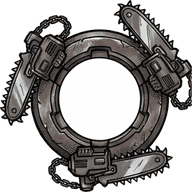
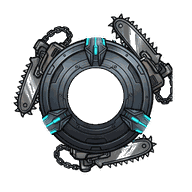
v0.39.0: all painted crowns and weapon rings, unified ring body, floating tops on the team screen
Claude-Session: https://claude.ai/code/session_01LmbtZinGW7YZgeBA32fd2Q

diff --git a/index.html b/index.html
@@ -3,7 +3,7 @@
 <head>
 <meta charset="utf-8">
 <meta name="viewport" content="width=device-width,initial-scale=1,maximum-scale=1,user-scalable=no,viewport-fit=cover">
-<title>SPIN! SPIN! v0.38.0</title>
+<title>SPIN! SPIN! v0.39.0</title>
 <link rel="manifest" href="manifest.webmanifest"><meta name="theme-color" content="#05050a"><link rel="apple-touch-icon" href="icons/icon-180.png"><meta name="apple-mobile-web-app-capable" content="yes"><meta name="mobile-web-app-capable" content="yes"><meta name="apple-mobile-web-app-status-bar-style" content="black-translucent"><meta name="apple-mobile-web-app-title" content="SPIN! SPIN!">
 <link rel="preconnect" href="https://fonts.googleapis.com"><link rel="preconnect" href="https://fonts.gstatic.com" crossorigin>
 <link href="https://fonts.googleapis.com/css2?family=Rajdhani:wght@500;700&family=Russo+One&display=swap" rel="stylesheet">
@@ -585,6 +585,9 @@ h1{font-style:italic;text-shadow:-2px -2px 0 #05060a,2px -2px 0 #05060a,-2px 2px
 #nav img{width:2.1em;height:2.1em;object-fit:contain;filter:saturate(.35) brightness(.7);transition:transform .12s,filter .12s}
 #nav button.on img{filter:drop-shadow(0 0 6px rgba(252,238,10,.7));transform:scale(1.15) translateY(-2px)}#nav button:active img{transform:scale(.86)}
 img.ore,.hmPill img{width:1.35em;height:1.35em;object-fit:contain;vertical-align:middle}
+#team .slot .stop{width:5.6em;height:5.6em;top:auto;bottom:47%;right:-.7em;z-index:2;filter:drop-shadow(0 .5em .25em rgba(0,0,0,.55));animation:stFloat 2.6s ease-in-out infinite}
+#team .slot:nth-child(2) .stop{animation-delay:-.9s}#team .slot:nth-child(3) .stop{animation-delay:-1.7s}
+@keyframes stFloat{50%{transform:translateY(-.35em) rotate(-4deg)}} /* v0.39 the top floats beside the portrait */
 </style>
 </head>
 <body>
@@ -831,6 +834,7 @@ img.ore,.hmPill img{width:1.35em;height:1.35em;object-fit:contain;vertical-align
  v0.28.0 lobby page (大廳: currencies, lead character, chapter banner, free battle) + team page; UI skin: chunky press-down buttons, layered panels, hierarchy
  v0.29.0 art pass: rarity frames (purple sparkles, red flame, gold holo), portrait unification (grade + halftone + rim), page wipe, button shine, chapter floor textures, spin arcs, display font for the logo
  v0.30.0 chapters 11-15 (50 levels): 15 returning BOSSes with move pools and recoloured portraits; ending also plays after 15-10
+ v0.39.0 all 27 crowns + 12 weapon rings painted, weapon rings share one standard ring body; team slots show a floating top beside the portrait
  v0.38.0 painted tops pilot (crown = card, weapon ring = weapon, armor = core glow); gantries stand on the wall rims; viaduct piers under the road
  v0.37.1 painted ramp deck (art/props/ramp_top.jpg) mapped up the slope in strips
  v0.37.0 painted UI kit (9-slice buttons/panels, nav + currency icons, chapter arrows), painted card backs by rarity, painted arena floors (normal + boss)
@@ -852,7 +856,7 @@ img.ore,.hmPill img{width:1.35em;height:1.35em;object-fit:contain;vertical-align
 */
 (() => {
 'use strict';
-const GAME_VERSION = 'v0.38.0';
+const GAME_VERSION = 'v0.39.0';
 document.getElementById('verFoot').textContent = `SPIN! SPIN! ${GAME_VERSION}`; document.title = `SPIN! SPIN! ${GAME_VERSION}`; // tab title always follows the version
 // hidden GM panel: tap the version text 7 times within 3 seconds
 (() => {
@@ -1426,18 +1430,18 @@ function bladeEdge(g, shape) {
   else if (shape === 'knob') { g.arc(26.5, 0, 6.3, Math.PI * 1.1, Math.PI * 1.9); }
 }
 // v0.38 pilot: painted tops = crown (character card) over weapon ring (weapon); the armor shows as the glow underneath
-const TOP_SPR = { c: {}, w: {} }; for (const k of ['berserker', 'guardian', 'hunter']) { const im = new Image(); im.onload = () => { TOP_SPR.c[k] = im; }; im.src = `art/tops/c_${k}.png`; }
-for (const k of ['chainaxe', 'grenade', 'gatling']) { const im = new Image(); im.onload = () => { TOP_SPR.w[k] = im; }; im.src = `art/tops/w_${k}.png`; }
+const TOP_SPR = { c: {}, w: {} }; for (const k of ['berserker', 'guardian', 'hunter', 'assassin', 'mage', 'mechcat', 'rat', 'rex', 'octo', 'rider', 'tesla', 'cactus', 'erin', 'jack', 'dj', 'spam', 'nova', 'raven', 'twins', 'chrono', 'david', 'sheep', 'maiden', 'theseus', 'proteus', 'host', 'undead']) { const im = new Image(); im.onload = () => { TOP_SPR.c[k] = im; }; im.src = `art/tops/c_${k}.png`; }
+for (const k of ['chainaxe', 'grenade', 'gatling', 'vibrosword', 'plasmascythe', 'hydrohammer', 'shotgun', 'railgun', 'smartpistol', 'missilepod', 'flamer', 'emp']) { const im = new Image(); im.onload = () => { TOP_SPR.w[k] = im; }; im.src = `art/tops/w_${k}.png`; }
 function drawTopSpr(g, build, angle, opts, cs, ws) {
   const a = ARMORS[build.a], c = CLASSES[build.c], spin = opts.spin || 0;
   g.save();
   if (spin > 0.05) { g.strokeStyle = `rgba(255,255,255,${0.1 * spin})`; g.lineWidth = 3; for (let r = 22; r <= 38; r += 8) { g.beginPath(); g.arc(0, 0, r, 0, TAU); g.stroke(); } }
-  g.save(); g.shadowColor = a.color; g.shadowBlur = 16; g.fillStyle = a.color; g.beginPath(); g.arc(0, 0, 25, 0, TAU); g.fill(); g.restore(); // core axle glow = armor colour
+  g.save(); g.shadowColor = a.color; g.shadowBlur = 16; g.fillStyle = a.color; g.beginPath(); g.arc(0, 0, 30, 0, TAU); g.fill(); g.restore(); // core axle glow = armor colour
   g.rotate(angle);
-  g.drawImage(ws, -38, -38, 76, 76);
-  g.drawImage(cs, -30, -30, 60, 60);
+  g.drawImage(ws, -47, -47, 94, 94);
+  g.drawImage(cs, -27, -27, 54, 54);
   g.restore();
-  if (drawFace(g, build.c, 0, 0, 10.5, opts.faceRot ? angle / 8 : 0)) { g.lineWidth = 2; g.strokeStyle = '#05060a'; g.beginPath(); g.arc(0, 0, 10.5, 0, TAU); g.stroke(); g.lineWidth = 1.4; g.strokeStyle = c.color; g.beginPath(); g.arc(0, 0, 12, 0, TAU); g.stroke(); }
+  if (drawFace(g, build.c, 0, 0, 9.5, opts.faceRot ? angle / 8 : 0)) { g.lineWidth = 2; g.strokeStyle = '#05060a'; g.beginPath(); g.arc(0, 0, 9.5, 0, TAU); g.stroke(); g.lineWidth = 1.4; g.strokeStyle = c.color; g.beginPath(); g.arc(0, 0, 11, 0, TAU); g.stroke(); }
   const sp = g.createRadialGradient(-12, -14, 1, -10, -12, 26); sp.addColorStop(0, 'rgba(255,255,255,.3)'); sp.addColorStop(1, 'rgba(255,255,255,0)'); g.fillStyle = sp; g.beginPath(); g.arc(0, 0, 34, 0, TAU); g.fill();
 }
 function drawTop(g, build, angle, opts = {}) {
@@ -1794,7 +1798,7 @@ function drawPreviews(dt) {
   for (const p of previews) {
     const z = p.size / 2;
     p.g.setTransform(1, 0, 0, 1, 0, 0); p.g.clearRect(0, 0, p.size, p.size);
-    p.g.setTransform(z / 38, 0, 0, z / 38, z, z);
+    p.g.setTransform(z / 52, 0, 0, z / 52, z, z);
     p.g.translate(0, -5); drawTop45(p.g, p.b, previewAng * WEAPONS[p.b.w].dir, 0.6);
   }
 }
@@ -1968,7 +1972,7 @@ function renderTeam() {
   collection.slice(0, 3).forEach((b, i) => {
     const el = document.createElement('div'); el.className = 'slot' + (teamSel === i ? ' picked' : ''); el.dataset.idx = i;
     el.insertAdjacentHTML('beforeend', `<div class="snum">${i + 1}</div><img class="sface" draggable="false" src="${PORTRAIT_SRC[b.c]}">`);
-    const pv = previewCanvas(b, 120); pv.className = 'stop'; el.appendChild(pv);
+    const pv = previewCanvas(b, 200); pv.className = 'stop'; el.appendChild(pv);
     el.insertAdjacentHTML('beforeend', `<div class="nm nm2">${nameLines(CLASSES[b.c].name)}</div>`);
     el.appendChild(partChips(b, i));
     el.insertAdjacentHTML('beforeend', `<div class="mini">EX「${CLASSES[b.c].exName}」</div>`);

diff --git a/sw.js b/sw.js
@@ -1,7 +1,7 @@
 // SPIN! SPIN! service worker: lets the game be installed to the home screen and played offline.
 // The game code (index.html, js/) is fetched from the network first so updates show up right away; the cache is the fallback.
 // Images are served from the cache first. CACHE changes with every release (tools/make_sw.py), which clears the old cache.
-const CACHE = 'spin-v0.38.0';
+const CACHE = 'spin-v0.39.0';
 const FILES = ['./', 'index.html', 'js/assets.js', 'js/chapters.js', 'manifest.webmanifest', 'icons/icon-192.png', 'icons/icon-512.png', 'icons/icon-180.png', 'art/portraits/assassin.jpg', 'art/portraits/berserker.jpg', 'art/portraits/boss_assassin.jpg', 'art/portraits/boss_berserker.jpg', 'art/portraits/boss_cactus.jpg', 'art/portraits/boss_cactus2.jpg', 'art/portraits/boss_chrono.jpg', 'art/portraits/boss_chrono2.jpg', 'art/portraits/boss_david.jpg', 'art/portraits/boss_david2.jpg', 'art/portraits/boss_dj.jpg', 'art/portraits/boss_dj2.jpg', 'art/portraits/boss_erin.jpg', 'art/portraits/boss_erin2.jpg', 'art/portraits/boss_guardian.jpg', 'art/portraits/boss_host.jpg', 'art/portraits/boss_host2.jpg', 'art/portraits/boss_host3.jpg', 'art/portraits/boss_hunter.jpg', 'art/portraits/boss_jack.jpg', 'art/portraits/boss_jack2.jpg', 'art/portraits/boss_mage.jpg', 'art/portraits/boss_maiden.jpg', 'art/portraits/boss_mechcat.jpg', 'art/portraits/boss_mechcat2.jpg', 'art/portraits/boss_nova.jpg', 'art/portraits/boss_octo.jpg', 'art/portraits/boss_octo2.jpg', 'art/portraits/boss_proteus.jpg', 'art/portraits/boss_rat.jpg', 'art/portraits/boss_rat2.jpg', 'art/portraits/boss_raven.jpg', 'art/portraits/boss_raven2.jpg', 'art/portraits/boss_rex.jpg', 'art/portraits/boss_rex2.jpg', 'art/portraits/boss_rider.jpg', 'art/portraits/boss_sheep.jpg', 'art/portraits/boss_sheep2.jpg', 'art/portraits/boss_spam.jpg', 'art/portraits/boss_spam2.jpg', 'art/portraits/boss_tesla.jpg', 'art/portraits/boss_tesla2.jpg', 'art/portraits/boss_theseus.jpg', 'art/portraits/boss_theseus2.jpg', 'art/portraits/boss_twins.jpg', 'art/portraits/boss_twins2.jpg', 'art/portraits/boss_undead.jpg', 'art/portraits/cactus.jpg', 'art/portraits/chrono.jpg', 'art/portraits/david.jpg', 'art/portraits/dj.jpg', 'art/portraits/erin.jpg', 'art/portraits/guardian.jpg', 'art/portraits/host.jpg', 'art/portraits/hunter.jpg', 'art/portraits/jack.jpg', 'art/portraits/mage.jpg', 'art/portraits/maiden.jpg', 'art/portraits/mechcat.jpg', 'art/portraits/nova.jpg', 'art/portraits/octo.jpg', 'art/portraits/proteus.jpg', 'art/portraits/rat.jpg', 'art/portraits/raven.jpg', 'art/portraits/rex.jpg', 'art/portraits/rider.jpg', 'art/portraits/sheep.jpg', 'art/portraits/spam.jpg', 'art/portraits/tesla.jpg', 'art/portraits/theseus.jpg', 'art/portraits/twins.jpg', 'art/portraits/undead.jpg'];
 self.addEventListener('install', e => { e.waitUntil(caches.open(CACHE).then(c => c.addAll(FILES)).then(() => self.skipWaiting())); });
 self.addEventListener('activate', e => { e.waitUntil(caches.keys().then(ks => Promise.all(ks.filter(k => k !== CACHE).map(k => caches.delete(k)))).then(() => self.clients.claim())); });

diff --git a/CHANGELOG.md b/CHANGELOG.md
@@ -4,6 +4,7 @@
 
 | 版本 | 內容 |
 |---|---|
+| v0.39.0 | ①**全部陀螺換成生圖版**：27 個角色的頂冠、12 把武器的武裝環都上線（art/tops/）；每個角色的頂冠依角色特色設計，中間圓窗放頭像；②**武裝環統一**：試做的 3 把（電鋸戰斧、榴彈旋盤、旋轉機砲）原本的中間環跟後來 9 把不一樣，已用程式把它們的環身換成同一款標準環，只保留各自凸出的武器部分；所有武裝環也統一大小與中心位置；電鋸環旁的白色煙霧去掉；③比例調整：武裝環放大、頂冠縮小，武器部分與深色環身會從頂冠周圍露出來，鎧甲顏色的光暈更明顯；④**隊伍編成**：每個出戰格的頭像右側漂浮一顆該組合的立體陀螺（會轉、上下浮動，三顆錯開節奏），換裝後即時更新 |
 | v0.38.0 | ①**生圖陀螺（試做）**：陀螺改成三層結構——最上層「頂冠」＝角色卡（每個角色獨特造型，中間圓窗放頭像）、第二層「武裝環」＝武器（凸出部分照武器外觀）、底部「核心軸」＝鎧甲（從縫隙透出鎧甲顏色的光暈）；兩層一起旋轉、頭像保持正向，遊戲中的斜角厚度與陰影由程式加上。先做 3 組：狂戰士、守護者、獵人的頂冠＋電鋸戰斧、榴彈旋盤、旋轉機砲的武裝環（art/tops/）；角色或武器還沒有圖時自動用舊畫法；②**賽道修正**：高架鋼架的柱子改成立在兩側牆頂（加底座、高度降低），不再從牆外斜飛出去；牆外加往下延伸的高架橋墩，賽道看起來是架在城市上方的高架橋 |
 | v0.37.1 | 跳台換成生圖材質：斜坡表面貼上鋼板＋粉藍→粉紅箭頭＋黃黑警示邊的跳台圖（art/props/ramp_top.jpg），照斜坡高度一條一條貼上去，所以會跟著斜度與透視變形；頂端加一道深色唇邊，表面有輕微的粉色呼吸光。另存一張跳台側板圖（ramp_side.jpg）備用 |
 | v0.37.0 | 介面與場地換成生圖版。①**按鈕與面板**（art/ui/，九宮格切圖，按鈕長短不同也不變形）：黃色主按鈕、深藍次按鈕（另備紅色危險按鈕 .btn.danger）、章節標題框與彈出確認視窗改用黃角框面板；章節切換的 ‹ › 換成生圖箭頭鈕；②**圖示**：導覽列 6 個圖示（大廳車庫、隊伍三顆陀螺、章節旗、抽卡補給箱、任務板、狀態頭盔）換成生圖版，目前頁面亮起放大、其他偏暗；金幣與萬能卡圖示換成生圖版；③**卡背**：抽卡時的卡背改用深藍黃角框面板，依稀有度改色（白卡銀灰、紫卡紫、紅卡紅、金卡金），保留「?」與「紫卡！」標籤；④**對戰場地**：一般對戰與闖關場用鋼板青光環場地圖、BOSS 場用紅色裂紋場地圖（art/arena_std.jpg、arena_boss.jpg），稍微壓暗，出口、CORE、加速軌道等標記照舊程式繪製 |
